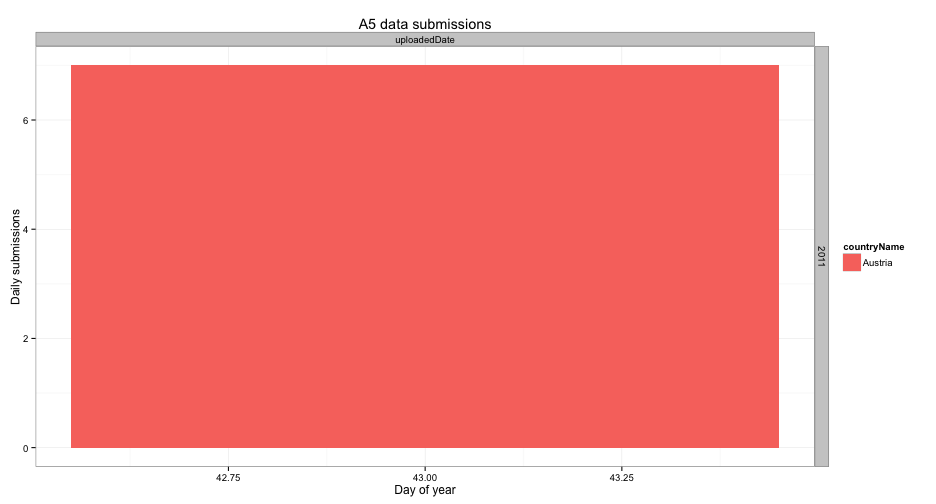
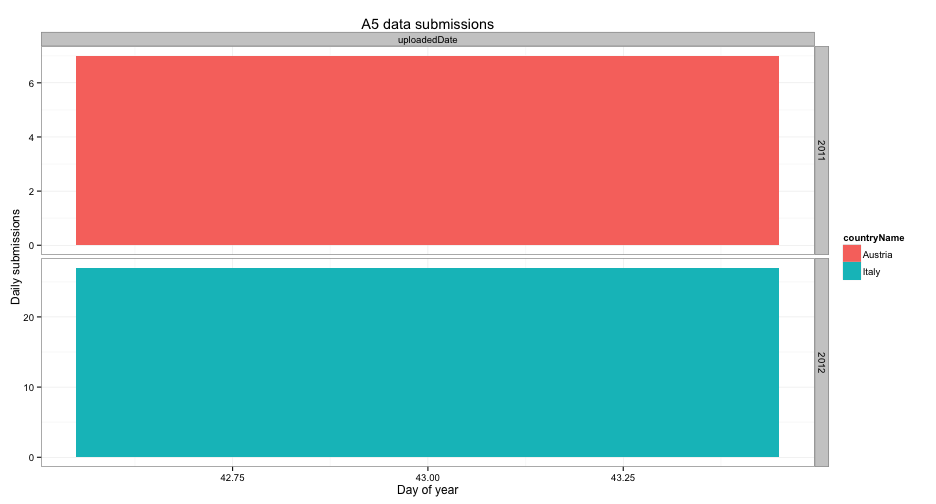
publishing deck

diff --git a/index.html b/index.html
@@ -53,13 +53,13 @@
 
 <!-- html table generated in R 2.15.2 by xtable 1.7-0 package -->
 
-<!-- Tue Feb 12 14:49:36 2013 -->
+<!-- Tue Feb 12 14:50:48 2013 -->
 
 <TABLE border=1>
 <TR> <TH>  </TH> <TH> No. uploaded </TH> <TH> No. metadated </TH> <TH> Total no. </TH> <TH> Upload ratio </TH> <TH> Metadata ratio </TH>  </TR>
-  <TR> <TD align="right"> Year2012 </TD> <TD align="right">   0 </TD> <TD align="right">   0 </TD> <TD align="right"> 1950 </TD> <TD align="right"> 0.00 </TD> <TD align="right"> 0.00 </TD> </TR>
+  <TR> <TD align="right"> Year2012 </TD> <TD align="right">  27 </TD> <TD align="right">   0 </TD> <TD align="right"> 1950 </TD> <TD align="right"> 0.01 </TD> <TD align="right"> 0.00 </TD> </TR>
   <TR> <TD align="right"> Year2011 </TD> <TD align="right">   7 </TD> <TD align="right">   0 </TD> <TD align="right"> 218 </TD> <TD align="right"> 0.03 </TD> <TD align="right"> 0.00 </TD> </TR>
-  <TR> <TD align="right"> Sum </TD> <TD align="right">   7 </TD> <TD align="right">   0 </TD> <TD align="right"> 2168 </TD> <TD align="right"> 0.00 </TD> <TD align="right"> 0.00 </TD> </TR>
+  <TR> <TD align="right"> Sum </TD> <TD align="right">  34 </TD> <TD align="right">   0 </TD> <TD align="right"> 2168 </TD> <TD align="right"> 0.02 </TD> <TD align="right"> 0.00 </TD> </TR>
    </TABLE>
 
   </article>
@@ -95,7 +95,7 @@
   <article>
     <!-- MotionChart generated in R 2.15.2 by googleVis 0.3.3 package -->
 
-<!-- Tue Feb 12 14:49:36 2013 -->
+<!-- Tue Feb 12 14:50:48 2013 -->
 
 <!-- jsHeader -->
 
@@ -105,12 +105,20 @@
 <script type="text/javascript">
  
 // jsData 
-function gvisDataMotionChartID20914cb91ba0 ()
+function gvisDataMotionChartID20914c5ccde2 ()
 {
   var data = new google.visualization.DataTable();
   var datajson =
 [
  [
+ "Italy",
+43,
+"2012",
+27,
+"uploadedDate",
+"Marine" 
+],
+[
  "Austria",
 43,
 "2011",
@@ -130,14 +138,14 @@ return(data);
 }
  
 // jsDrawChart
-function drawChartMotionChartID20914cb91ba0() {
-  var data = gvisDataMotionChartID20914cb91ba0();
+function drawChartMotionChartID20914c5ccde2() {
+  var data = gvisDataMotionChartID20914c5ccde2();
   var options = {};
 options["width"] =    600;
 options["height"] =    500;
 
      var chart = new google.visualization.MotionChart(
-       document.getElementById('MotionChartID20914cb91ba0')
+       document.getElementById('MotionChartID20914c5ccde2')
      );
      chart.draw(data,options);
     
@@ -146,14 +154,14 @@ options["height"] =    500;
   
  
 // jsDisplayChart 
-function displayChartMotionChartID20914cb91ba0()
+function displayChartMotionChartID20914c5ccde2()
 {
   google.load("visualization", "1", { packages:["motionchart"] }); 
-  google.setOnLoadCallback(drawChartMotionChartID20914cb91ba0);
+  google.setOnLoadCallback(drawChartMotionChartID20914c5ccde2);
 }
  
 // jsChart 
-displayChartMotionChartID20914cb91ba0()
+displayChartMotionChartID20914c5ccde2()
  
 <!-- jsFooter -->  
 //-->
@@ -162,7 +170,7 @@ displayChartMotionChartID20914cb91ba0()
 
 <!-- divChart -->
 
-<div id="MotionChartID20914cb91ba0"
+<div id="MotionChartID20914c5ccde2"
   style="width: 600px; height: 500px;">
 </div>
 

diff --git a/index.md b/index.md
@@ -30,12 +30,12 @@ mode        : selfcontained # {standalone, draft}
 
 
 <!-- html table generated in R 2.15.2 by xtable 1.7-0 package -->
-<!-- Tue Feb 12 14:49:36 2013 -->
+<!-- Tue Feb 12 14:50:48 2013 -->
 <TABLE border=1>
 <TR> <TH>  </TH> <TH> No. uploaded </TH> <TH> No. metadated </TH> <TH> Total no. </TH> <TH> Upload ratio </TH> <TH> Metadata ratio </TH>  </TR>
-  <TR> <TD align="right"> Year2012 </TD> <TD align="right">   0 </TD> <TD align="right">   0 </TD> <TD align="right"> 1950 </TD> <TD align="right"> 0.00 </TD> <TD align="right"> 0.00 </TD> </TR>
+  <TR> <TD align="right"> Year2012 </TD> <TD align="right">  27 </TD> <TD align="right">   0 </TD> <TD align="right"> 1950 </TD> <TD align="right"> 0.01 </TD> <TD align="right"> 0.00 </TD> </TR>
   <TR> <TD align="right"> Year2011 </TD> <TD align="right">   7 </TD> <TD align="right">   0 </TD> <TD align="right"> 218 </TD> <TD align="right"> 0.03 </TD> <TD align="right"> 0.00 </TD> </TR>
-  <TR> <TD align="right"> Sum </TD> <TD align="right">   7 </TD> <TD align="right">   0 </TD> <TD align="right"> 2168 </TD> <TD align="right"> 0.00 </TD> <TD align="right"> 0.00 </TD> </TR>
+  <TR> <TD align="right"> Sum </TD> <TD align="right">  34 </TD> <TD align="right">   0 </TD> <TD align="right"> 2168 </TD> <TD align="right"> 0.02 </TD> <TD align="right"> 0.00 </TD> </TR>
    </TABLE>
 
 
@@ -62,7 +62,7 @@ mode        : selfcontained # {standalone, draft}
 ## Motion chart
 
 <!-- MotionChart generated in R 2.15.2 by googleVis 0.3.3 package -->
-<!-- Tue Feb 12 14:49:36 2013 -->
+<!-- Tue Feb 12 14:50:48 2013 -->
 
 
 <!-- jsHeader -->
@@ -71,12 +71,20 @@ mode        : selfcontained # {standalone, draft}
 <script type="text/javascript">
  
 // jsData 
-function gvisDataMotionChartID20914cb91ba0 ()
+function gvisDataMotionChartID20914c5ccde2 ()
 {
   var data = new google.visualization.DataTable();
   var datajson =
 [
  [
+ "Italy",
+43,
+"2012",
+27,
+"uploadedDate",
+"Marine" 
+],
+[
  "Austria",
 43,
 "2011",
@@ -96,14 +104,14 @@ return(data);
 }
  
 // jsDrawChart
-function drawChartMotionChartID20914cb91ba0() {
-  var data = gvisDataMotionChartID20914cb91ba0();
+function drawChartMotionChartID20914c5ccde2() {
+  var data = gvisDataMotionChartID20914c5ccde2();
   var options = {};
 options["width"] =    600;
 options["height"] =    500;
 
      var chart = new google.visualization.MotionChart(
-       document.getElementById('MotionChartID20914cb91ba0')
+       document.getElementById('MotionChartID20914c5ccde2')
      );
      chart.draw(data,options);
     
@@ -112,14 +120,14 @@ options["height"] =    500;
   
  
 // jsDisplayChart 
-function displayChartMotionChartID20914cb91ba0()
+function displayChartMotionChartID20914c5ccde2()
 {
   google.load("visualization", "1", { packages:["motionchart"] }); 
-  google.setOnLoadCallback(drawChartMotionChartID20914cb91ba0);
+  google.setOnLoadCallback(drawChartMotionChartID20914c5ccde2);
 }
  
 // jsChart 
-displayChartMotionChartID20914cb91ba0()
+displayChartMotionChartID20914c5ccde2()
  
 <!-- jsFooter -->  
 //-->
@@ -127,7 +135,7 @@ displayChartMotionChartID20914cb91ba0()
  
 <!-- divChart -->
   
-<div id="MotionChartID20914cb91ba0"
+<div id="MotionChartID20914c5ccde2"
   style="width: 600px; height: 500px;">
 </div>
 
